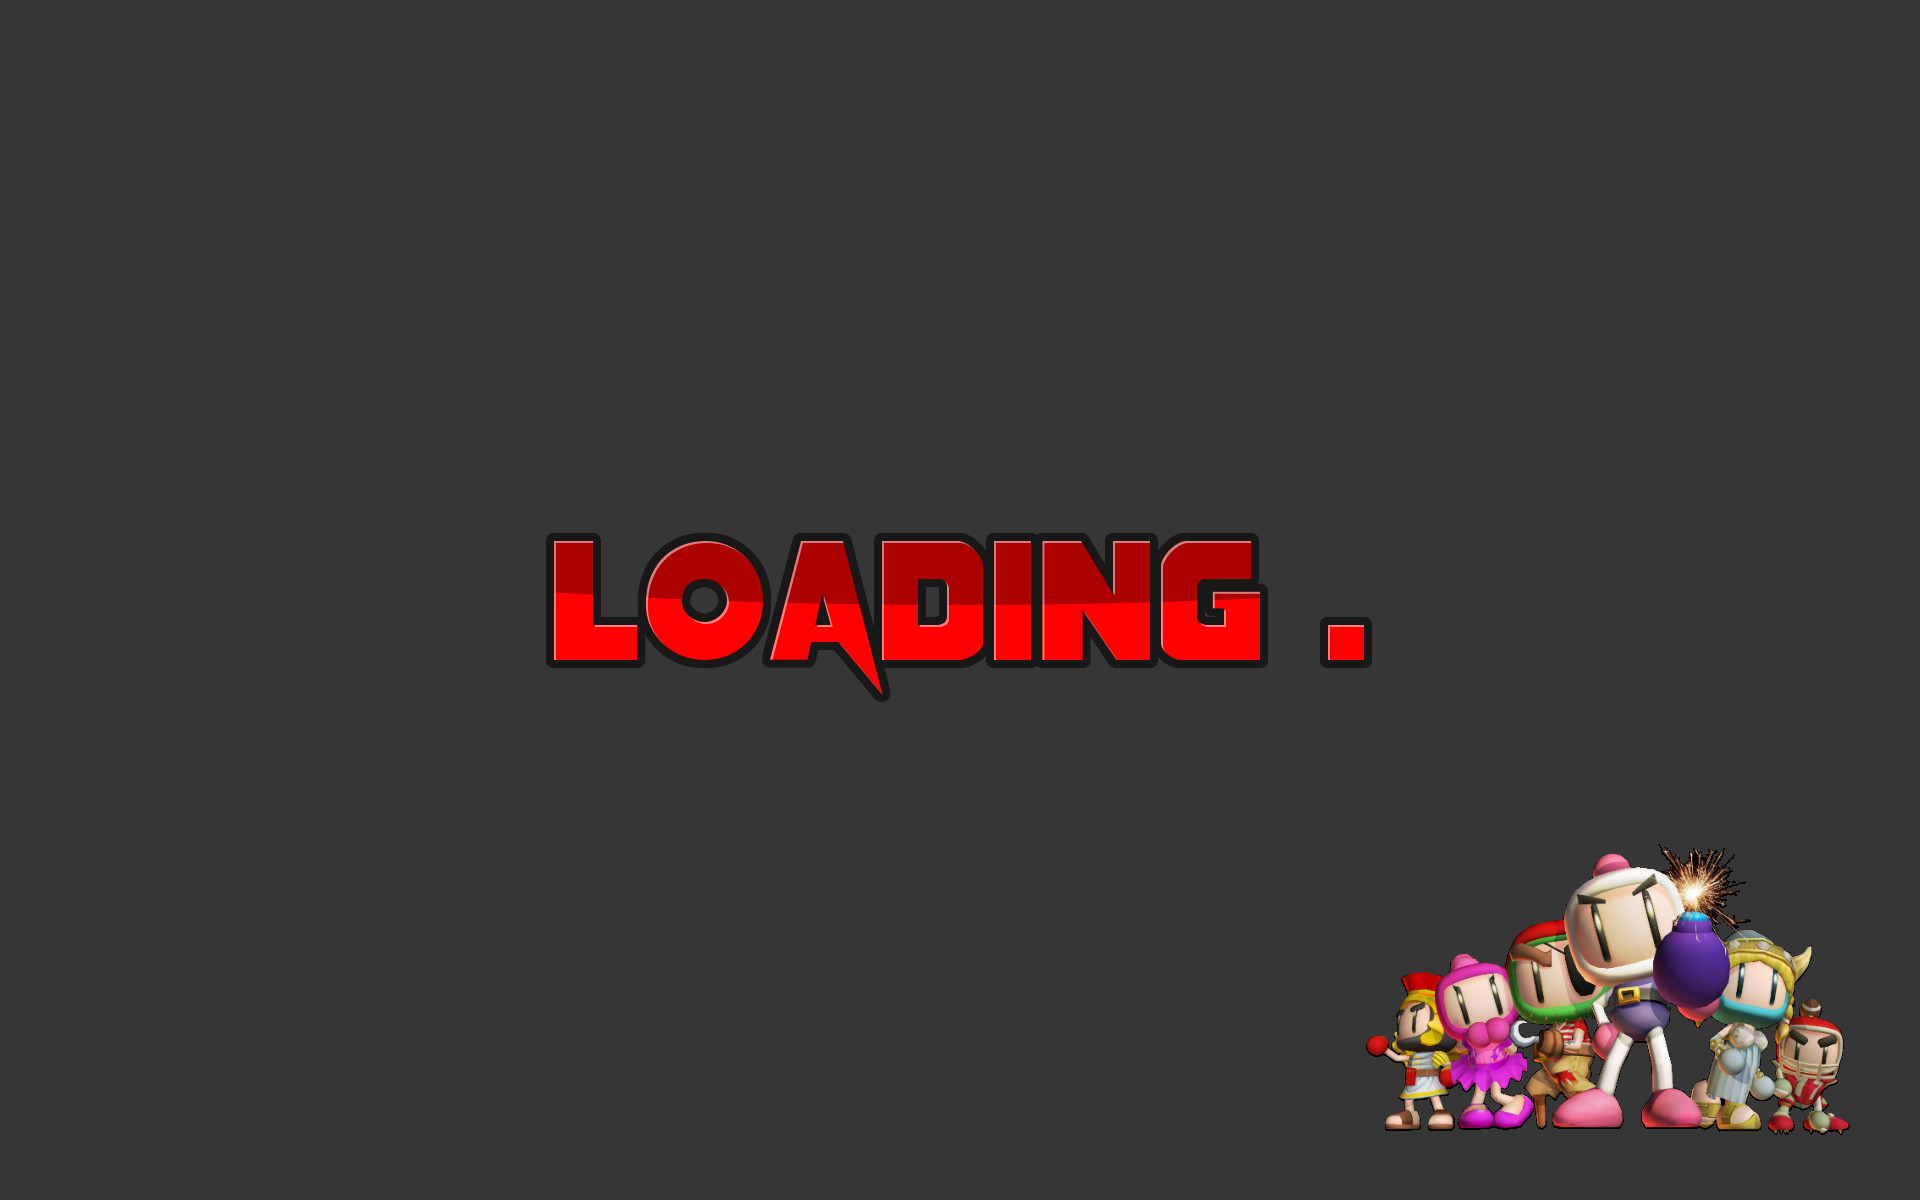
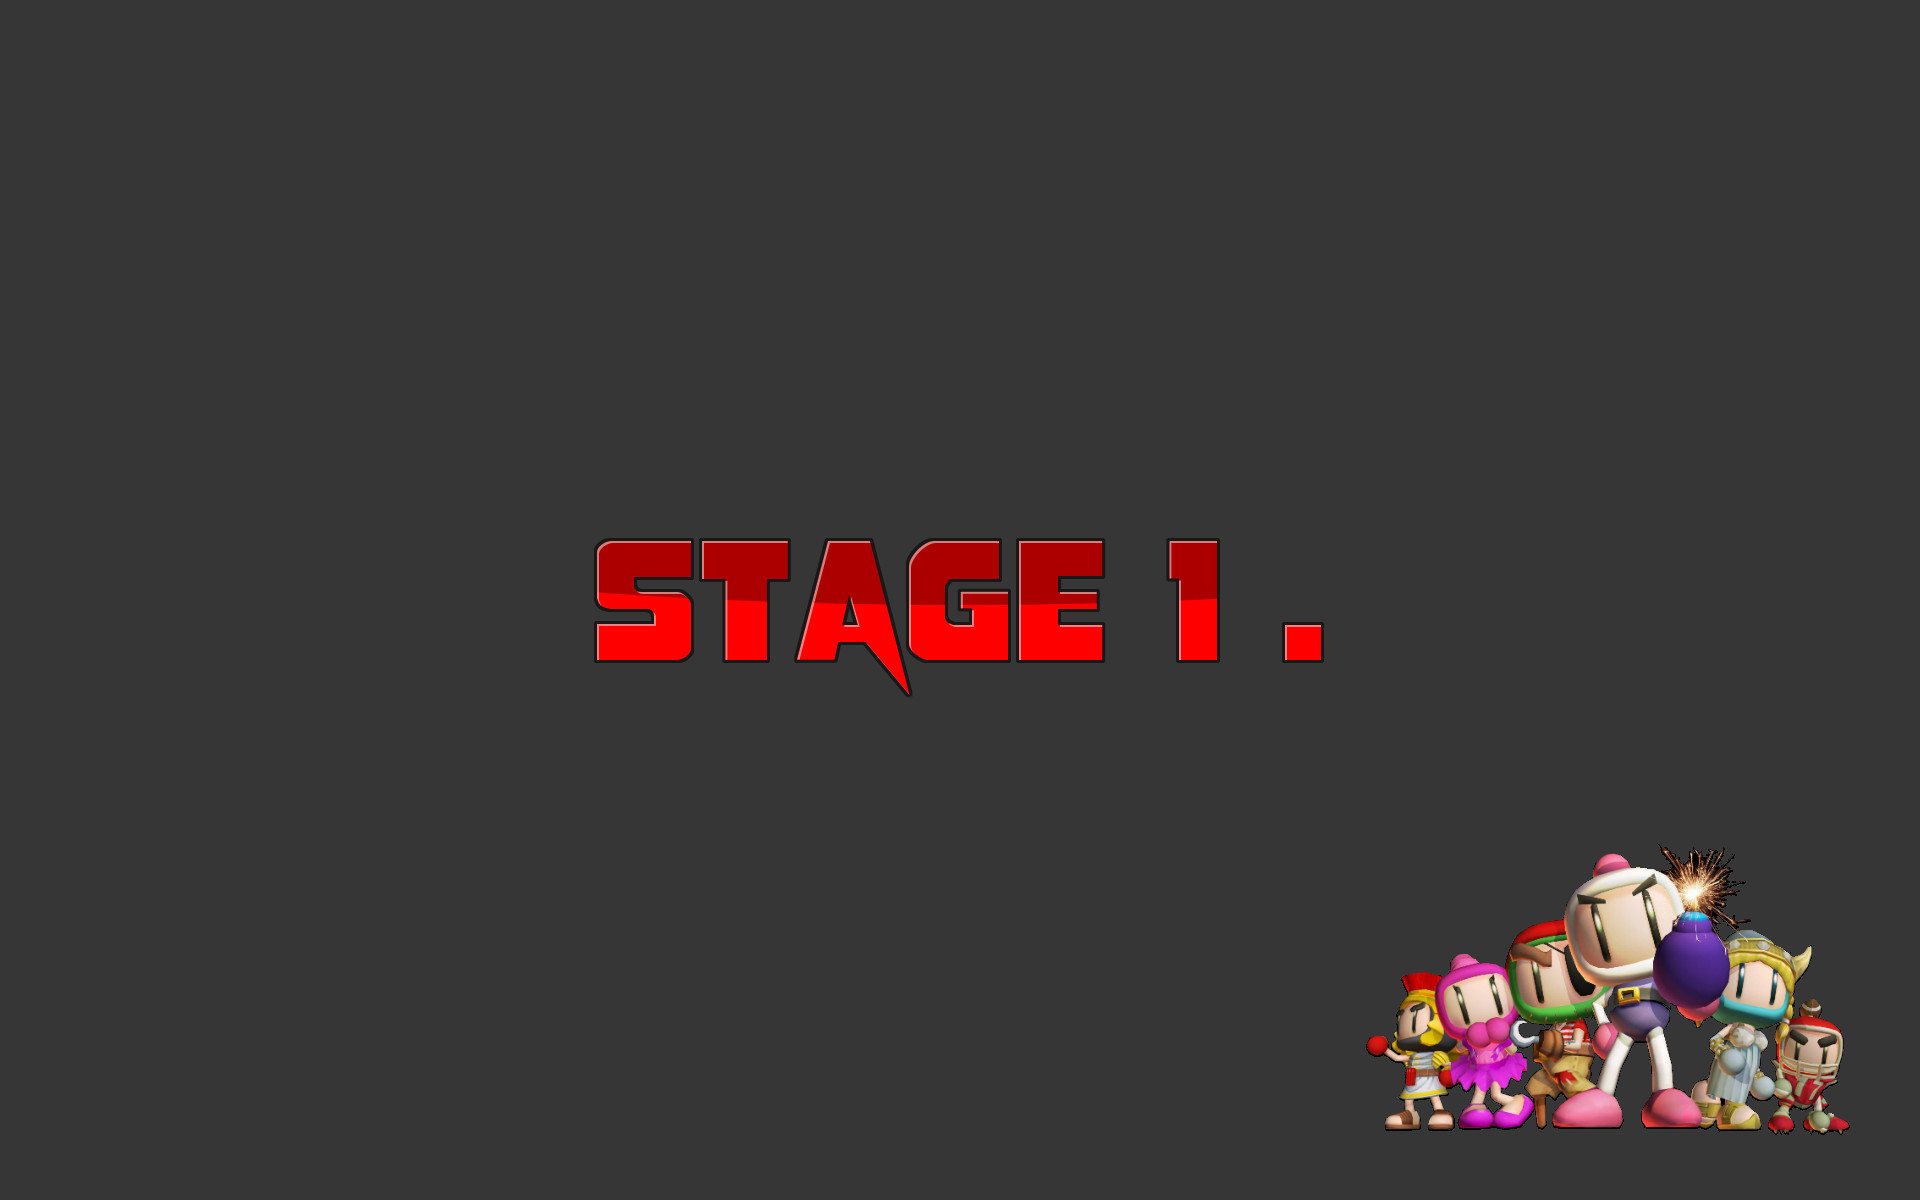
added 3 stages

Changed region(s): [[0.2812, 0.4317, 0.7188, 0.5858]]

diff --git a/source/classes/Game.class.cpp b/source/classes/Game.class.cpp
@@ -70,6 +70,7 @@ Game::Game(const int width, const int height) : screen_x(width), screen_y(height
 {
 	std::cout << "Game - Parametric Constructor called" << std::endl;
 	int temp22 = 2;
+	int stage = 2;
 	lastX = 400;
 	lastY = 300;
 	firstMouse = true;
@@ -137,8 +138,9 @@ Game::Game(const int width, const int height) : screen_x(width), screen_y(height
 		this->Menus.push_back(new MainMenu(shader, "resources/models/menu/Menu_" + std::to_string(i) + ".obj"));
 
 	Item temp(shader, "resources/models/portal/portal.obj");
-	for (int i = 0; i < 3; i++)
-		this->load.push_back(new LoadingScreen(shader, "resources/models/menu/Loading_screen_" + std::to_string(i) + ".obj"));
+
+	for (int i = 0; i < 9; i++)
+		this->load.push_back(new LoadingScreen(shader, "resources/models/menu/LoadingScreen/Loading_screen_" + std::to_string(i) + ".obj"));
 	this->loadActive = 0;
 
 	// Item temp(shader, "resources/models/fire/fire.obj");
@@ -190,6 +192,7 @@ Game::Game(const int width, const int height) : screen_x(width), screen_y(height
 				keys[GLFW_KEY_ENTER] = false;
 				if (this->menuActive == 0)
 				{
+					this->loadActive = 0;
 					menuVisible = false;
 					loadVisible =true;
 					std::thread *worldThread =  new std::thread(createWorld, this);
@@ -251,12 +254,12 @@ Game::Game(const int width, const int height) : screen_x(width), screen_y(height
 
 						glfwSetWindowMonitor(window, monitor, 0, 0, 2300, 1920, mode->refreshRate);
 						glfwSetWindowMonitor(window, monitor, 0, 0, this->screen_x, this->screen_y, mode->refreshRate);
+						keys[GLFW_KEY_ENTER] = true;
 						// sleep(3);
 						// glfwSetWindowMonitor(window, monitor, 0, 0, this->screen_x, this->screen_y, mode->refreshRate);
 						
 						// if (!((mode->width == this->screen_x + 128) && (mode->height == this->screen_y + 72)))
 						temp22++;
-						// keys[GLFW_KEY_ENTER] = true;
 					}
 				}
 			}
@@ -267,7 +270,20 @@ Game::Game(const int width, const int height) : screen_x(width), screen_y(height
 			if (loadVisible == true)
 			{
 				if (this->loadActive == 3)
+				{
 					this->loadActive = 0;
+					stage = 2;
+				}
+				if (this->loadActive == 6)
+				{
+					this->loadActive = 4;
+					stage = 3;
+				}
+				if (this->loadActive == 9)
+				{
+					this->loadActive = 7;
+					stage = 2;
+				}
 				load[this->loadActive]->draw();
 				usleep(400000);
 				this->loadActive++;
@@ -281,15 +297,24 @@ Game::Game(const int width, const int height) : screen_x(width), screen_y(height
 					DoMovement();
 					if (world->getStatus() == 1)
 					{
-						// this->world->draw(camera.GetViewMatrix(), currentFrame);
-						// old_time_key = currentFrame;
-						// DoMovement();
 						delete this->world;
 						camera.moveCamForMenu();
 						camera.ProcessMouseMovement(0, -250);
 						this->menuActive = 0;
 						menuVisible = true;
-						// glfwSetWindowShouldClose(window, GL_TRUE);
+					}
+					else if (world->getStatus() == 2)
+					{
+						if (stage == 2)
+							this->loadActive = 4;
+						if (stage == 3)
+							this->loadActive = 7;
+						delete this->world;
+						camera.moveCamForMenu();
+						camera.ProcessMouseMovement(0, -250);
+						loadVisible = true;
+						std::thread *worldThread =  new std::thread(createWorld, this);
+						worldThread->detach();
 					}
 				}
 			}

diff --git a/source/classes/World.class.cpp b/source/classes/World.class.cpp
@@ -495,8 +495,8 @@ void World::draw(glm::mat4 matCamera, const GLfloat glfwTime)
 										/*
 											also load next level here
 										*/
-										it = this->powerups->erase(it);
-										this->worldStatus = 1;
+											it = this->powerups->erase(it);
+											this->worldStatus = 2;
 									}
 									else
 										++it;
